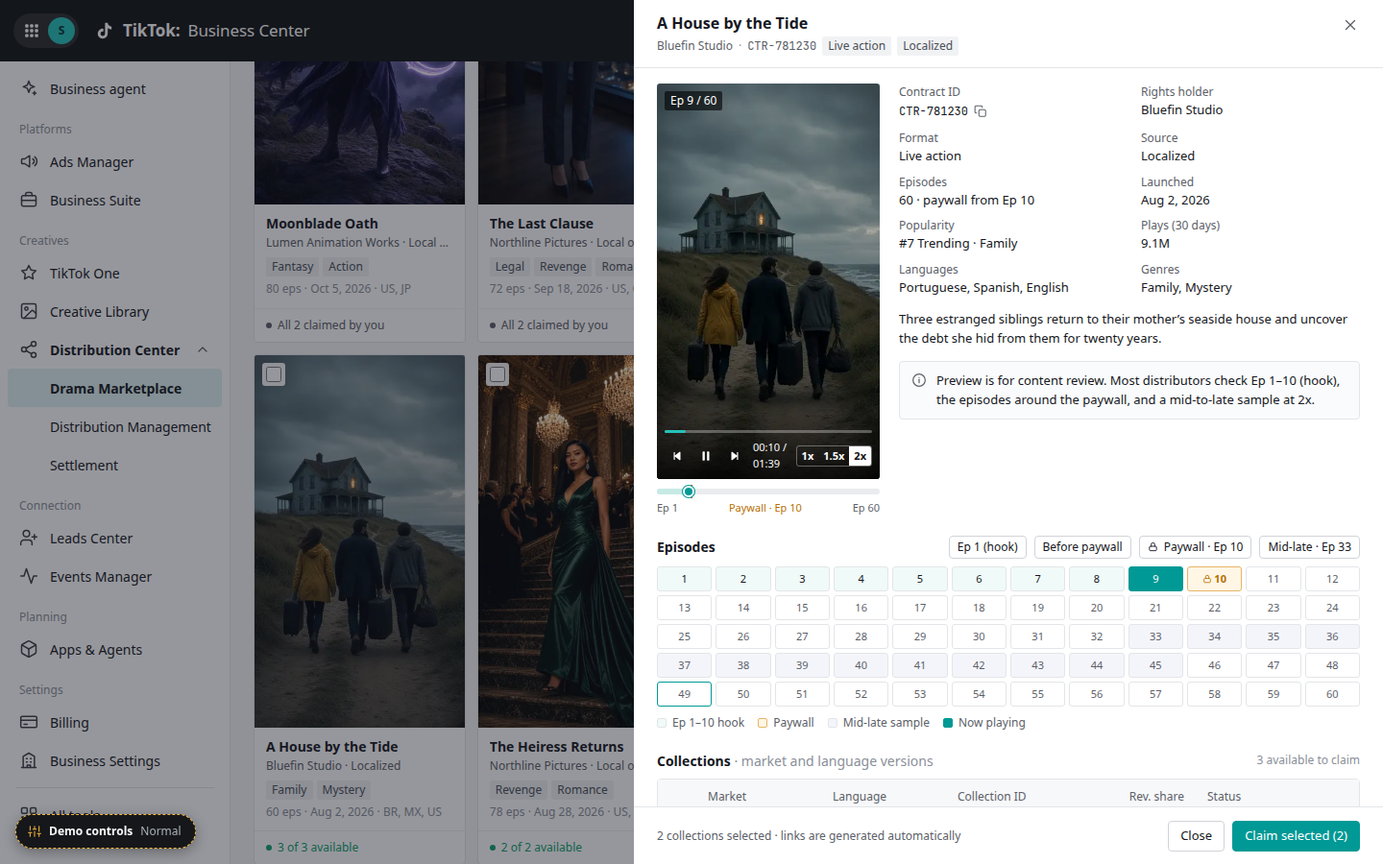
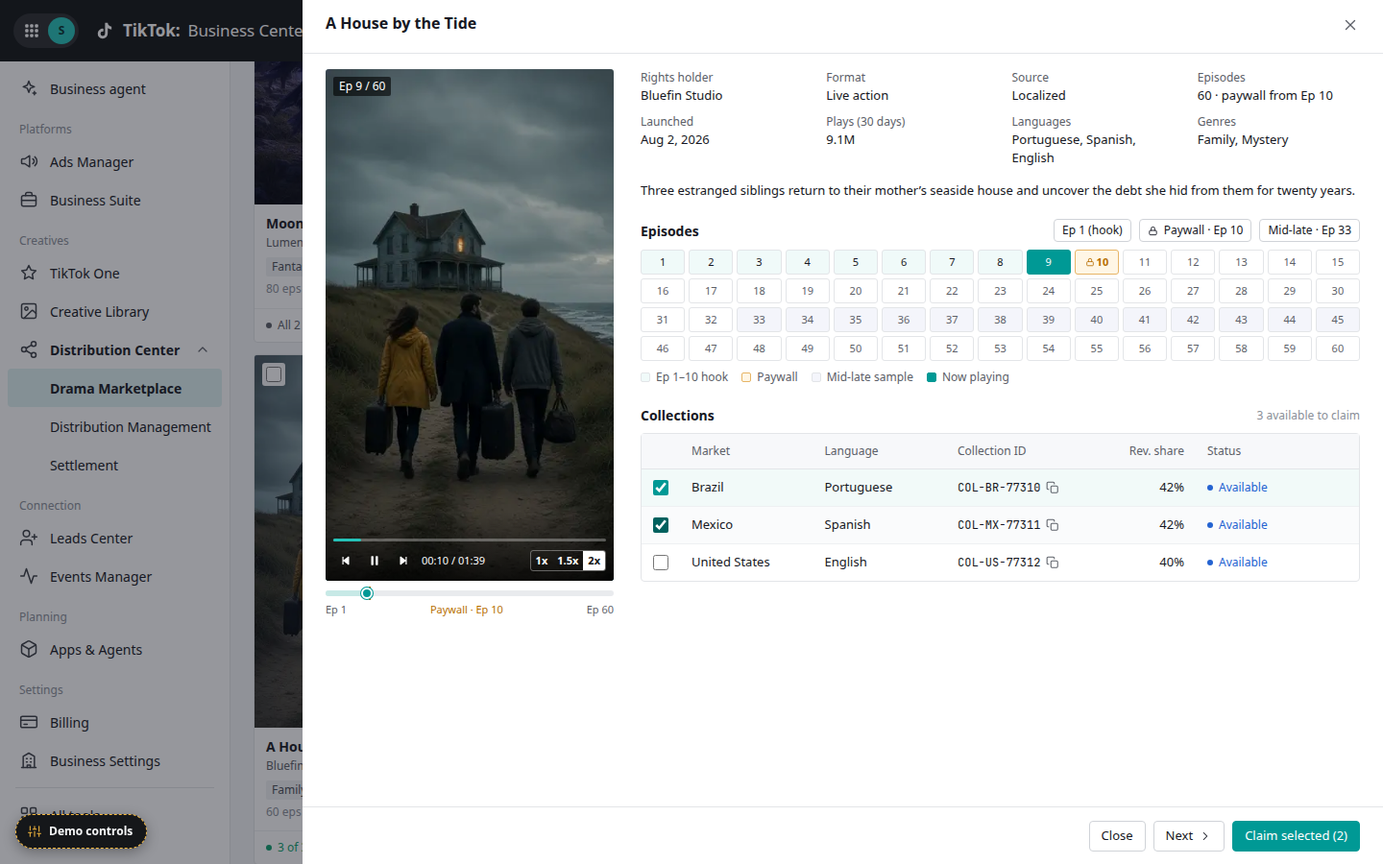
Sync prototype: 1125px drawers, simplified drama drawer with Next button, refresh screenshots

diff --git a/index.html b/index.html
@@ -212,7 +212,7 @@ button.kpi.on{box-shadow:inset 0 -2px 0 var(--primary)}
 /* Drawer & modal */
 .mask{position:fixed;inset:0;background:rgba(22,24,35,.45);z-index:100;opacity:0;transition:opacity .15s}
 .mask.show{opacity:1}
-.drawer{position:fixed;top:0;right:0;bottom:0;width:min(var(--w,760px),calc(100vw - 80px));background:#fff;z-index:101;display:flex;flex-direction:column;transform:translateX(100%);transition:transform .2s ease}
+.drawer{position:fixed;top:0;right:0;bottom:0;width:min(1125px,calc(100vw - 48px));background:#fff;z-index:101;display:flex;flex-direction:column;transform:translateX(100%);transition:transform .2s ease}
 .drawer.show{transform:none}
 .dr-h{min-height:56px;padding:12px 20px 12px 24px;border-bottom:1px solid var(--border);display:flex;align-items:flex-start;gap:12px}
 .dr-h .t{flex:1;min-width:0}
@@ -233,6 +233,11 @@ button.kpi.on{box-shadow:inset 0 -2px 0 var(--primary)}
 .sec-h h4{margin:0;font-size:14px;font-weight:600}
 .kv{display:grid;grid-template-columns:repeat(2,minmax(0,1fr));gap:8px 24px}
 .kv.three{grid-template-columns:repeat(3,minmax(0,1fr))}
+.kv.four{grid-template-columns:repeat(4,minmax(0,1fr))}
+.kv.one{grid-template-columns:minmax(0,1fr);gap:10px}
+.dr-cols{display:grid;grid-template-columns:minmax(0,1fr) 320px;gap:24px;align-items:start}
+.dr-aside{display:flex;flex-direction:column;gap:20px;min-width:0}
+.dr-aside .sec{margin-top:0}
 .kv .k{font-size:12px;color:var(--text2)}
 .kv .v{font-size:13px;word-break:break-word}
 .box{border:1px solid var(--border);border-radius:4px;padding:12px 14px}
@@ -255,8 +260,9 @@ button.kpi.on{box-shadow:inset 0 -2px 0 var(--primary)}
 .amount-xl{font-size:28px;font-weight:600;line-height:36px;font-variant-numeric:tabular-nums}
 
 /* Player */
-.det-top{display:grid;grid-template-columns:232px minmax(0,1fr);gap:20px}
-.player{position:relative;width:232px;aspect-ratio:9/16;background:#000;border-radius:4px;overflow:hidden;color:#fff;user-select:none}
+.det{display:grid;grid-template-columns:300px minmax(0,1fr);gap:28px;align-items:start}
+.det-l{position:sticky;top:0}
+.player{position:relative;width:100%;aspect-ratio:9/16;background:#000;border-radius:4px;overflow:hidden;color:#fff;user-select:none}
 .player svg.poster{position:absolute;inset:0;width:100%;height:100%}
 .player .pl-frame{position:absolute;inset:0;width:100%;height:100%;object-fit:cover}
 .player .pl-dim{position:absolute;inset:0;background:rgba(0,0,0,.18)}
@@ -275,13 +281,13 @@ button.kpi.on{box-shadow:inset 0 -2px 0 var(--primary)}
 .pl-speed{display:flex;border:1px solid rgba(255,255,255,.35);border-radius:3px;overflow:hidden}
 .pl-speed button{border:0;background:transparent;color:#fff;font-size:11px;height:20px;padding:0 5px;cursor:pointer;font-weight:600}
 .pl-speed button.on{background:#fff;color:#111}
-.series{margin-top:10px;width:232px}
+.series{margin-top:10px;width:100%}
 .series .trk{position:relative;height:6px;background:#E9EBEE;border-radius:3px}
 .series .free{position:absolute;left:0;top:0;bottom:0;background:#C7E9E6;border-radius:3px 0 0 3px}
 .series .mark{position:absolute;top:-4px;width:2px;height:14px;background:var(--warn)}
 .series .cur{position:absolute;top:-3px;width:12px;height:12px;border-radius:50%;background:var(--primary);border:2px solid #fff;box-shadow:0 0 0 1px var(--primary);transform:translateX(-6px)}
 .series .lbls{display:flex;justify-content:space-between;font-size:11px;color:var(--text2);margin-top:6px}
-.ep-grid{display:grid;grid-template-columns:repeat(12,minmax(0,1fr));gap:4px}
+.ep-grid{display:grid;grid-template-columns:repeat(15,minmax(0,1fr));gap:4px}
 .ep{height:26px;border:1px solid var(--border);background:#fff;border-radius:3px;font-size:11px;cursor:pointer;display:flex;align-items:center;justify-content:center;gap:2px;padding:0;font-variant-numeric:tabular-nums}
 .ep:hover{border-color:var(--primary)}
 .ep.hook{background:#F0FAF9}
@@ -319,6 +325,7 @@ button.kpi.on{box-shadow:inset 0 -2px 0 var(--primary)}
 .demo-pill{height:36px;border-radius:18px;background:#15171A;border:1px dashed #F5B83D;color:#F5F6F7;display:flex;align-items:center;gap:8px;padding:0 14px 0 12px;cursor:pointer;font-size:12px;font-weight:600;box-shadow:0 4px 14px rgba(0,0,0,.3)}
 .demo-pill .ic{color:#F5B83D}
 .demo-pill em{font-style:normal;color:#A9AFB8;font-weight:500}
+#drawer-root:has(.drawer) ~ .demo .demo-pill em{display:none}
 .demo-panel{width:300px;background:#15171A;border:1px dashed #F5B83D;border-radius:6px;box-shadow:0 8px 24px rgba(0,0,0,.35);overflow:hidden}
 .demo-h{display:flex;align-items:center;gap:8px;padding:10px 10px 10px 14px;border-bottom:1px solid #2C3036}
 .demo-h b{font-size:12px;letter-spacing:.6px;text-transform:uppercase;color:#F5B83D}
@@ -657,7 +664,7 @@ let drawerFn = null, modalFn = null, drawerClose = null;
 function openDrawer(fn, onClose){
   drawerFn = fn; drawerClose = onClose || null;
   const r = fn();
-  $('#drawer-root').innerHTML = `<div class="mask" data-act="close-drawer"></div><aside class="drawer" role="dialog" aria-modal="true" style="--w:${r.width || 760}px">${drawerInner(r)}</aside>`;
+  $('#drawer-root').innerHTML = `<div class="mask" data-act="close-drawer"></div><aside class="drawer" role="dialog" aria-modal="true">${drawerInner(r)}</aside>`;
   requestAnimationFrame(() => { $$('#drawer-root .mask, #drawer-root .drawer').forEach(e => e.classList.add('show')); });
 }
 function drawerInner(r){
@@ -667,7 +674,7 @@ function refreshDrawer(){
   if (!drawerFn) return;
   const dr = $('#drawer-root .drawer'); if (!dr) return;
   const b = $('.dr-b', dr); const top = b ? b.scrollTop : 0;
-  const r = drawerFn(); dr.style.setProperty('--w', (r.width || 760) + 'px'); dr.innerHTML = drawerInner(r);
+  const r = drawerFn(); dr.innerHTML = drawerInner(r);
   const nb = $('.dr-b', dr); if (nb) nb.scrollTop = top;
   if (r.after) r.after();
 }
@@ -913,8 +920,8 @@ function dramaDrawer(ctrId){
       <td class="num">${x.share}%</td><td>${colStatus(x)}</td></tr>`;
   }).join('');
   const body = `
-  <div class="det-top">
-    <div>
+  <div class="det">
+    <div class="det-l">
       <div class="player ${PL.playing ? 'playing' : ''}" id="player">
         ${poster(ctrId)}<img class="pl-frame" id="pl-frame" src="${frameSrc(ctrId, (PL.ep - 1) % MEDIA[ctrId][1] + 1)}" alt=""><div class="pl-dim"></div>
         <div class="pl-top"><span class="tag dark" id="pl-ep">Ep ${PL.ep} / ${N}</span><span class="tag warn" id="pl-lock" style="${PL.ep >= pw ? '' : 'display:none'}">${ic('lock', 10)}Paid episode</span></div>
@@ -933,36 +940,33 @@ function dramaDrawer(ctrId){
       <div class="series"><div class="trk"><div class="free" style="width:${(pw - 1) / N * 100}%"></div><div class="mark" style="left:${(pw - 1) / N * 100}%" title="Paywall"></div><div class="cur" id="pl-cur" style="left:${(PL.ep - 0.5) / N * 100}%"></div></div>
         <div class="lbls"><span>Ep 1</span><span style="color:var(--warn)">Paywall · Ep ${pw}</span><span>Ep ${N}</span></div></div>
     </div>
-    <div>
-      <div class="kv">
-        <div><div class="k">Contract ID</div><div class="v"><span class="copyable"><span class="mono">${c.id}</span>${copyBtn(c.id, 'Contract ID copied')}</span></div></div>
+    <div class="det-r">
+      <div class="kv four">
         <div><div class="k">Rights holder</div><div class="v">${c.holder}</div></div>
         <div><div class="k">Format</div><div class="v">${c.format}</div></div>
         <div><div class="k">Source</div><div class="v">${c.source}</div></div>
         <div><div class="k">Episodes</div><div class="v">${N} · paywall from Ep ${pw}</div></div>
         <div><div class="k">Launched</div><div class="v">${c.launchL}</div></div>
-        <div><div class="k">Popularity</div><div class="v">${c.rankL}</div></div>
         <div><div class="k">Plays (30 days)</div><div class="v">${c.plays}</div></div>
         <div><div class="k">Languages</div><div class="v">${Array.from(new Set(cs.map(x => x.lang))).join(', ')}</div></div>
         <div><div class="k">Genres</div><div class="v">${c.genres.join(', ')}</div></div>
       </div>
       <p style="margin:14px 0 0">${c.synopsis}</p>
-      <div class="banner plain" style="margin-top:14px">${ic('info', 16)}<div class="bn-body">Preview is for content review. Most distributors check Ep 1–10 (hook), the episodes around the paywall, and a mid-to-late sample at 2x.</div></div>
-    </div>
-  </div>
-  <div class="sec"><div class="sec-h"><h4>Episodes</h4><div class="filters"><button class="btn btn-xs" data-act="pl-ep" data-ep="1">Ep 1 (hook)</button><button class="btn btn-xs" data-act="pl-ep" data-ep="${Math.max(1, pw - 1)}">Before paywall</button><button class="btn btn-xs" data-act="pl-ep" data-ep="${pw}">${ic('lock', 11)}Paywall · Ep ${pw}</button><button class="btn btn-xs" data-act="pl-ep" data-ep="${midA}">Mid-late · Ep ${midA}</button></div></div>
+  <div class="sec"><div class="sec-h"><h4>Episodes</h4><div class="filters"><button class="btn btn-xs" data-act="pl-ep" data-ep="1">Ep 1 (hook)</button><button class="btn btn-xs" data-act="pl-ep" data-ep="${pw}">${ic('lock', 11)}Paywall · Ep ${pw}</button><button class="btn btn-xs" data-act="pl-ep" data-ep="${midA}">Mid-late · Ep ${midA}</button></div></div>
     <div class="ep-grid" id="ep-grid">${eps}</div>
     <div class="legend"><span><i style="background:#F0FAF9"></i>Ep 1–10 hook</span><span><i style="background:var(--warn-bg);border-color:#E7B567"></i>Paywall</span><span><i style="background:#F4F5FB"></i>Mid-late sample</span><span><i style="background:var(--primary);border-color:var(--primary)"></i>Now playing</span></div>
   </div>
-  <div class="sec"><div class="sec-h"><h4>Collections <span class="faint" style="font-weight:400">· market and language versions</span></h4><span class="faint" style="font-size:12px">${availCount} available to claim</span></div>
+  <div class="sec"><div class="sec-h"><h4>Collections</h4><span class="faint" style="font-size:12px">${availCount} available to claim</span></div>
     <div class="panel"><table class="tbl"><thead><tr><th style="width:40px"></th><th>Market</th><th>Language</th><th style="width:170px">Collection ID</th><th style="width:90px" class="num">Rev. share</th><th style="width:170px">Status</th></tr></thead><tbody>${rows}</tbody></table></div>
-    <div class="faint" style="font-size:12px;margin-top:8px">Each claim is registered as Collection ID × ${BCS.main.name} (BC ${BCS.main.id}). Revenue share is set by the rights holder per collection.</div>
+  </div>
+    </div>
   </div>`;
   const n = DS.sel.size;
-  return {title:c.title, width:780,
-    sub:`<span>${c.holder}</span><span class="faint">·</span><span class="mono">${c.id}</span><span class="tag">${c.format}</span><span class="tag">${c.source}</span>`,
+  const order = mkFiltered().map(k => k.id); const at = order.indexOf(ctrId); const next = at >= 0 ? order[at + 1] : null;
+  const nextTip = next ? 'Next: ' + ctrOf(next).title : at < 0 ? 'Not in the current Marketplace list' : 'Last drama in the current Marketplace list';
+  return {title:c.title,
     body,
-    footer:`<span class="grow">${n ? plural(n, 'collection') + ' selected · links are generated automatically' : 'Select collections to claim. Links are generated automatically; no ads are created.'}</span><button class="btn" data-act="close-drawer">Close</button><button class="btn btn-primary" data-act="claim-open">Claim selected${n ? ' (' + n + ')' : ''}</button>`};
+    footer:`<button class="btn" data-act="close-drawer">Close</button><button class="btn" data-act="drama-next" ${next ? 'data-id="' + next + '"' : 'disabled'} title="${esc(nextTip)}">Next${ic('chev-right', 14)}</button><button class="btn btn-primary" data-act="claim-open">Claim selected${n ? ' (' + n + ')' : ''}</button>`};
 }
 function updatePlayer(){
   const c = ctrOf(PL.ctr); if (!c || !$('#player')){ stopPlayer(); return; }
@@ -1194,13 +1198,13 @@ function openGenerate(pre){
 function genDrawer(){
   const cands = genCandidates(); const n = GS.sel.size;
   const rows = cands.map(c => { const l = linkOf(c.id), k = ctrOf(c.ctr), on = GS.sel.has(c.id);
-    return `<tr class="${on ? 'sel' : ''}"><td><input type="checkbox" class="cb" name="g-${c.id}" data-chg="gen-sel" data-id="${c.id}" ${on ? 'checked' : ''} aria-label="Select"></td><td><div class="cell-title ell">${k.title}</div><div class="cell-sub">${colLabel(c)}</div></td><td class="mono">${c.id}</td><td>${l ? '<span class="st muted">Link exists</span><div class="st-reason">Returns existing link</div>' : '<span class="st info">No link yet</span>'}</td></tr>`; }).join('');
+    return `<tr class="${on ? 'sel' : ''}"><td><input type="checkbox" class="cb" name="g-${c.id}" data-chg="gen-sel" data-id="${c.id}" ${on ? 'checked' : ''} aria-label="Select"></td><td><div class="cell-title ell">${k.title}</div><div class="cell-sub mono">${k.id}</div></td><td>${colLabel(c)}</td><td class="mono">${c.id}</td><td class="num">${c.share}%</td><td>${l ? '<span class="st muted">Link exists</span><div class="st-reason">Returns existing link</div>' : '<span class="st info">No link yet</span>'}</td></tr>`; }).join('');
   const newN = Array.from(GS.sel).filter(id => !linkOf(id)).length;
-  return {title:'Generate links', width:680, sub:'Choose a Business Center and the claimed collections that need links',
+  return {title:'Generate links', sub:'Choose a Business Center and the claimed collections that need links',
     body:`${banner('info', 'Generation is idempotent: one link per Collection × Business Center. Re-submitting, retrying, or selecting a collection that already has a link returns the existing link instead of creating a duplicate.')}
       <div class="sec"><div class="sec-h"><h4>Claimed collections</h4><span class="faint" style="font-size:12px">BC ${BCS[GS.bc].id}</span></div>
       <div class="toolbar" style="margin-bottom:8px"><div class="left"><select class="select" style="width:250px" name="gen-bc" data-chg="gen-bc" aria-label="Business Center"><option value="main" ${GS.bc === 'main' ? 'selected' : ''}>${BCS.main.name} (${BCS.main.role})</option><option value="sub" ${GS.bc === 'sub' ? 'selected' : ''}>Studio B (${BCS.sub.role})</option></select></div><div class="right"><button class="btn" data-act="gen-pick" data-m="new">Select without links</button><button class="btn" data-act="gen-pick" data-m="all">Select all</button><button class="btn" data-act="gen-pick" data-m="none">Clear</button></div></div>
-      ${cands.length ? `<div class="panel"><table class="tbl"><thead><tr><th style="width:40px"></th><th>Drama · collection</th><th style="width:150px">Collection ID</th><th style="width:170px">Current link</th></tr></thead><tbody>${rows}</tbody></table></div>` : '<div class="panel">' + emptyBlock('inbox', 'No claimed collections in this Business Center', 'Studio B hasn\u2019t claimed any collections. Claims belong to the Business Center that made them.', '<button class="btn" data-act="gen-bc-main">Switch to ' + BCS.main.name + '</button>') + '</div>'}</div>`,
+      ${cands.length ? `<div class="panel"><table class="tbl"><thead><tr><th style="width:40px"></th><th>Drama (Contract)</th><th style="width:240px">Market · language</th><th style="width:160px">Collection ID</th><th style="width:100px" class="num">Rev. share</th><th style="width:190px">Current link</th></tr></thead><tbody>${rows}</tbody></table></div>` : '<div class="panel">' + emptyBlock('inbox', 'No claimed collections in this Business Center', 'Studio B hasn\u2019t claimed any collections. Claims belong to the Business Center that made them.', '<button class="btn" data-act="gen-bc-main">Switch to ' + BCS.main.name + '</button>') + '</div>'}</div>`,
     footer:`<span class="grow">${n ? plural(n, 'collection') + ' selected · ' + newN + ' new' : 'Nothing selected'}</span><button class="btn" data-act="close-drawer">Cancel</button><button class="btn btn-primary" data-act="gen-submit">Generate links${n ? ' (' + n + ')' : ''}</button>`};
 }
 let CODE_N = 0;
@@ -1241,14 +1245,16 @@ function linkDrawer(colId){
       return `<tr><td class="mono">${a.id}</td><td class="ell">${a.name}</td><td class="ell cell-sub">${a.campaign}</td><td><span class="st ${cls}">${a.st}</span></td></tr>`; }).join('')}</tbody></table></div>`
     : '<div class="panel">' + emptyBlock('ads', 'No ads use this link yet', 'Ads you create in TTAM with this link will appear here.', '') + '</div>';
   const recheck = l.status === 'unknown' || l.ap === 'pausing' || l.ap === 'unknown';
-  return {title:k.title + ' · ' + c.market, width:780,
+  return {title:k.title + ' · ' + c.market,
     sub:`<span>${c.lang}</span><span class="faint">·</span><span class="mono">${c.id}</span>${stChip(LINK_ST, l.status)}`,
-    body:`<div class="sec"><div class="box" style="display:flex;align-items:center;gap:8px"><span style="color:var(--text2)">${ic('link', 16)}</span><span class="mono ell" style="flex:1;font-size:13px">${l.url}</span><button class="btn btn-sm" data-act="copy" data-text="${l.url}" data-msg="Link copied">${ic('copy', 14)}Copy</button></div></div>
+    body:`<div class="dr-cols"><div class="dr-main"><div class="sec"><div class="box" style="display:flex;align-items:center;gap:8px"><span style="color:var(--text2)">${ic('link', 16)}</span><span class="mono ell" style="flex:1;font-size:13px">${l.url}</span><button class="btn btn-sm" data-act="copy" data-text="${l.url}" data-msg="Link copied">${ic('copy', 14)}Copy</button></div></div>
       <div class="sec boxes">
         <div class="box"><div class="box-l">Link status · from TTDC</div>${linkStCell(l)}<div class="cell-sub" style="margin-top:6px">Updated ${l.updated}</div></div>
         <div class="box"><div class="box-l">Auto-pause result · from TTAM</div>${stChip(AP_ST, l.ap)}<div class="st-reason">${l.apNote || (l.status === 'active' ? 'Link is active; no ads need pausing.' : '')}</div>${l.ap === 'failed' || l.ap === 'partial' ? '<div style="margin-top:6px"><button class="btn-link" style="font-size:12px" data-act="ttam" data-col="' + l.col + '">Pause remaining ads in TTAM ' + ic('external', 12) + '</button></div>' : ''}</div>
       </div>
-      <div class="sec"><div class="sec-h"><h4>Distribution relationship</h4></div><div class="kv three">
+      <div class="sec"><div class="sec-h"><h4>Ads using this link <span class="faint" style="font-weight:400">· ${plural(l.ads.length, 'ad')}</span></h4></div>${ads}</div>
+      <div class="sec"><div class="sec-h"><h4>Status history</h4></div><ul class="timeline">${l.history.slice().reverse().map(h => `<li class="${h.k}"><div class="tl-t">${h.t}</div><div class="tl-e">${h.e}</div><div class="tl-d">${h.d}</div></li>`).join('')}</ul></div></div>
+      <div class="dr-aside">      <div class="sec"><div class="sec-h"><h4>Distribution relationship</h4></div><div class="kv one">
         <div><div class="k">Identifier</div><div class="v mono">${c.id} × BC ${BCS.main.id}</div></div>
         <div><div class="k">Business Center</div><div class="v">${BCS.main.name}</div></div>
         <div><div class="k">Contract ID</div><div class="v mono">${k.id}</div></div>
@@ -1257,9 +1263,7 @@ function linkDrawer(colId){
         <div><div class="k">Revenue share</div><div class="v">${c.share}%</div></div>
         <div><div class="k">Generated</div><div class="v">${l.created}</div></div>
         <div><div class="k">Rights holder</div><div class="v">${k.holder}</div></div>
-        <div><div class="k">Closing a link</div><div class="v">Only the rights holder, in TTDC</div></div></div></div>
-      <div class="sec"><div class="sec-h"><h4>Ads using this link <span class="faint" style="font-weight:400">· ${plural(l.ads.length, 'ad')}</span></h4></div>${ads}</div>
-      <div class="sec"><div class="sec-h"><h4>Status history</h4></div><ul class="timeline">${l.history.slice().reverse().map(h => `<li class="${h.k}"><div class="tl-t">${h.t}</div><div class="tl-e">${h.e}</div><div class="tl-d">${h.d}</div></li>`).join('')}</ul></div>`,
+        <div><div class="k">Closing a link</div><div class="v">Only the rights holder, in TTDC</div></div></div></div></div></div>`,
     footer:`${recheck ? '<button class="btn" data-act="link-recheck" data-col="' + l.col + '">' + ic('refresh', 14) + 'Refresh status</button>' : ''}<button class="btn btn-primary" data-act="ttam" data-col="${l.col}">${ic('external', 14)}Open TTAM</button>`};
 }
 
@@ -1310,19 +1314,26 @@ function openExport(){
 function exportDrawer(){
   const all = D().links.length, filt = lvFiltered().length, seln = Array.from(UI.lv.sel).filter(id => linkOf(id)).length;
   const radio = (v, l, n) => `<label class="check-row" style="margin-top:8px"><input type="radio" class="cb" name="ex-scope" data-chg="ex-scope" value="${v}" ${EX.scope === v ? 'checked' : ''}><span><b>${l}</b><div class="cell-sub">${plural(n, 'link')}</div></span></label>`;
-  return {title:'Export links', width:560, sub:'Complete export of your distribution links',
-    body:`<div class="sec"><div class="sec-h"><h4>Scope</h4></div>${radio('all', 'All links', all)}${radio('filtered', 'Links matching current filters', filt)}${radio('selected', 'Selected links', seln)}</div>
-      <div class="sec"><div class="sec-h"><h4>Columns</h4><span class="faint" style="font-size:12px">${EX.fields.size} of ${LINK_FIELDS.length}</span></div><div class="kv">${LINK_FIELDS.map(f => `<label style="display:flex;gap:8px;align-items:center;cursor:pointer"><input type="checkbox" class="cb" name="ex-f-${f[0]}" data-chg="ex-field" data-f="${f[0]}" ${EX.fields.has(f[0]) ? 'checked' : ''}>${f[1]}</label>`).join('')}</div></div>
-      <div class="sec"><div class="sec-h"><h4>Format</h4></div><div class="seg"><button class="${EX.fmt === 'csv' ? 'on' : ''}" data-act="ex-fmt" data-v="csv">CSV</button><button class="${EX.fmt === 'tsv' ? 'on' : ''}" data-act="ex-fmt" data-v="tsv">TSV (paste into sheets)</button></div></div>`,
+  const scoped = exScope(); const flds = LINK_FIELDS.filter(f => EX.fields.has(f[0]));
+  const preview = !scoped.length ? '<div class="panel">' + emptyBlock('inbox', 'No links in this scope', 'Choose another scope to see a preview.', '') + '</div>'
+    : !flds.length ? '<div class="panel">' + emptyBlock('file', 'No columns selected', 'Choose at least one column to export.', '') + '</div>'
+    : `<div class="panel" style="overflow-x:auto"><table class="tbl" style="min-width:${flds.length * 140}px"><thead><tr>${flds.map(f => '<th>' + f[1] + '</th>').join('')}</tr></thead><tbody>${scoped.slice(0, 5).map(l => '<tr>' + flds.map(f => `<td class="ell ${f[0] === 'link' || f[0] === 'contract' || f[0] === 'collection' ? 'mono' : ''}" title="${esc(String(exVal(l, f[0])))}">${esc(String(exVal(l, f[0])))}</td>`).join('') + '</tr>').join('')}</tbody></table></div>${scoped.length > 5 ? '<div class="faint" style="font-size:12px;margin-top:8px">Showing 5 of ' + plural(scoped.length, 'row') + '.</div>' : ''}`;
+  return {title:'Export links', sub:'Complete export of your distribution links',
+    body:`<div class="dr-cols"><div class="dr-main">
+      <div class="sec"><div class="sec-h"><h4>Columns</h4><span class="faint" style="font-size:12px">${EX.fields.size} of ${LINK_FIELDS.length}</span></div><div class="kv four">${LINK_FIELDS.map(f => `<label style="display:flex;gap:8px;align-items:center;cursor:pointer"><input type="checkbox" class="cb" name="ex-f-${f[0]}" data-chg="ex-field" data-f="${f[0]}" ${EX.fields.has(f[0]) ? 'checked' : ''}>${f[1]}</label>`).join('')}</div></div>
+      <div class="sec"><div class="sec-h"><h4>Preview</h4><span class="faint" style="font-size:12px">${plural(scoped.length, 'row')}</span></div>${preview}</div></div>
+      <div class="dr-aside"><div class="sec"><div class="sec-h"><h4>Scope</h4></div>${radio('all', 'All links', all)}${radio('filtered', 'Links matching current filters', filt)}${radio('selected', 'Selected links', seln)}</div>
+      <div class="sec"><div class="sec-h"><h4>Format</h4></div><div class="seg"><button class="${EX.fmt === 'csv' ? 'on' : ''}" data-act="ex-fmt" data-v="csv">CSV</button><button class="${EX.fmt === 'tsv' ? 'on' : ''}" data-act="ex-fmt" data-v="tsv">TSV (paste into sheets)</button></div></div></div></div>`,
     footer:`<span class="grow">File: distribution-links-2026-11-03.${EX.fmt}</span><button class="btn" data-act="close-drawer">Cancel</button><button class="btn btn-primary" data-act="ex-run">${ic('download', 14)}Export</button>`};
 }
+function exScope(){ return EX.scope === 'all' ? D().links : EX.scope === 'filtered' ? lvFiltered() : D().links.filter(l => UI.lv.sel.has(l.col)); }
+function exVal(l, f){ const c = colOf(l.col), k = ctrOf(c.ctr); return {drama:k.title, contract:k.id, collection:c.id, market:c.market, lang:c.lang, link:l.url, status:LINK_ST[l.status][1], reason:l.reason, ap:AP_ST[l.ap][1], updated:l.updated}[f]; }
 function runExport(){
-  let list = EX.scope === 'all' ? D().links : EX.scope === 'filtered' ? lvFiltered() : D().links.filter(l => UI.lv.sel.has(l.col));
+  const list = exScope();
   if (!list.length){ toast('No links in this scope. Choose another scope.', 'warn'); return; }
   if (!EX.fields.size){ toast('Choose at least one column.', 'warn'); return; }
   const flds = LINK_FIELDS.filter(f => EX.fields.has(f[0]));
-  const val = (l, f) => { const c = colOf(l.col), k = ctrOf(c.ctr); return {drama:k.title, contract:k.id, collection:c.id, market:c.market, lang:c.lang, link:l.url, status:LINK_ST[l.status][1], reason:l.reason, ap:AP_ST[l.ap][1], updated:l.updated}[f]; };
-  const rows = [flds.map(f => f[1])].concat(list.map(l => flds.map(f => val(l, f[0]))));
+  const rows = [flds.map(f => f[1])].concat(list.map(l => flds.map(f => exVal(l, f[0]))));
   const text = EX.fmt === 'tsv' ? rows.map(r => r.join('\t')).join('\n') : csv(rows);
   download('distribution-links-2026-11-03.' + EX.fmt, text);
   closeDrawer(); toast('Exported ' + plural(list.length, 'link') + ' to distribution-links-2026-11-03.' + EX.fmt);
@@ -1385,15 +1396,16 @@ function stmDrawer(id){
   else if (s.status === 'failed') foot += `<button class="btn" data-act="outside" data-name="Billing">Update beneficiary in Billing</button><button class="btn btn-primary" data-act="stm-retry" data-id="${id}">Request payout retry</button>`;
   else if (s.status === 'confirming') foot += `<button class="btn btn-primary" data-act="stm-check" data-id="${id}">${ic('refresh', 14)}Check status</button>`;
   else foot += `<button class="btn btn-primary" data-act="close-drawer">Close</button>`;
-  return {title:'Settlement statement ' + s.id, width:760, sub:`<span>${s.period}</span><span class="faint">·</span><span>${b.name}</span><span class="faint">·</span><span>Version ${s.version}</span>${stChip(STM_ST, s.status)}`,
+  return {title:'Settlement statement ' + s.id, sub:`<span>${s.period}</span><span class="faint">·</span><span>${b.name}</span><span class="faint">·</span><span>Version ${s.version}</span>${stChip(STM_ST, s.status)}`,
     body:`${s.revised ? banner('warn', '<b>Amount revised: v1 to v2.</b> An adjustment of ' + money(s.adj) + ' was added on Nov 2 (' + s.adjNote + '). Please review and confirm again; your earlier review doesn\u2019t apply to the new version.') + '<div style="height:12px"></div>' : ''}
       ${s.status === 'failed' ? banner('err', '<b>Payout failed · ' + s.failReason + '.</b> The bank rejected the transfer because the account holder name doesn\u2019t match the beneficiary on file. Update the beneficiary name in Billing, then request a payout retry.') + '<div style="height:12px"></div>' : ''}
-      <div class="boxes"><div class="box"><div class="box-l">Final amount · ${s.status === 'pending' ? 'requires your confirmation' : 'formal receivable'}</div><div class="amount-xl">${money(stmFinal(s))}</div><div class="cell-sub">USD · gross ${money(s.gross)} · adjustments ${money(s.adj)}</div></div>
-      <div class="box"><div class="kv"><div><div class="k">Business Center</div><div class="v">${b.name} (${b.role})</div></div><div><div class="k">BC ID</div><div class="v mono">${b.id}</div></div><div><div class="k">Period</div><div class="v">${s.period}</div></div><div><div class="k">Confirm by</div><div class="v">${s.due}</div></div></div></div></div>
+      <div class="dr-cols"><div class="dr-main">
       <div class="sec"><div class="sec-h"><h4>Breakdown by drama</h4><span class="faint" style="font-size:12px">${plural(s.split.length, 'Contract')}</span></div><div class="panel"><table class="tbl"><thead><tr><th style="width:220px">Drama (Contract)</th><th>Collections</th><th class="num" style="width:130px">Amount</th></tr></thead><tbody>${split}
         ${s.adj ? `<tr><td><div class="cell-title">Adjustments</div></td><td class="cell-sub">${s.adjNote}</td><td class="num">${money(s.adj)}</td></tr>` : ''}
         <tr><td style="font-weight:600">Final amount</td><td></td><td class="num" style="font-weight:600">${money(stmFinal(s))}</td></tr></tbody></table></div></div>
-      <div class="sec"><div class="sec-h"><h4>Payout and activity log</h4></div>${logs.length ? '<ul class="timeline">' + logs.map(l => `<li class="${l.k}"><div class="tl-t">${l.t}</div><div class="tl-e">${l.e}</div><div class="tl-d">${l.d}</div></li>`).join('') + '</ul>' : '<div class="faint">No activity yet.</div>'}</div>`,
+      <div class="sec"><div class="sec-h"><h4>Payout and activity log</h4></div>${logs.length ? '<ul class="timeline">' + logs.map(l => `<li class="${l.k}"><div class="tl-t">${l.t}</div><div class="tl-e">${l.e}</div><div class="tl-d">${l.d}</div></li>`).join('') + '</ul>' : '<div class="faint">No activity yet.</div>'}</div></div>
+      <div class="dr-aside"><div class="box"><div class="box-l">Final amount · ${s.status === 'pending' ? 'requires your confirmation' : 'formal receivable'}</div><div class="amount-xl">${money(stmFinal(s))}</div><div class="cell-sub">USD · gross ${money(s.gross)} · adjustments ${money(s.adj)}</div></div>
+      <div class="box"><div class="kv one"><div><div class="k">Business Center</div><div class="v">${b.name} (${b.role})</div></div><div><div class="k">BC ID</div><div class="v mono">${b.id}</div></div><div><div class="k">Period</div><div class="v">${s.period}</div></div><div><div class="k">Version</div><div class="v">${s.version}</div></div><div><div class="k">Confirm by</div><div class="v">${s.due}</div></div></div></div></div></div>`,
     footer:foot};
 }
 const CS = {ack:false};
@@ -1437,6 +1449,12 @@ const ACT = {
   'pl-ep': el => setEp(+el.dataset.ep),
   'pl-speed': el => { PL.speed = +el.dataset.v; $$('.pl-speed button').forEach(b => b.classList.toggle('on', +b.dataset.v === PL.speed)); toast('Playback speed ' + PL.speed + 'x', 'info'); },
   'pl-seek': (el, e) => { const r = el.getBoundingClientRect(); PL.t = Math.max(0, Math.min(1, (e.clientX - r.left) / r.width)) * epDur(PL.ep); updatePlayer(); },
+  'drama-next': el => {
+    const id = el.dataset.id; if (!id) return;
+    stopPlayer(); PL.ctr = id; PL.ep = 1; PL.t = 0; DS.sel = new Set();
+    drawerFn = () => dramaDrawer(id); refreshDrawer();
+    const b = $('#drawer-root .dr-b'); if (b) b.scrollTop = 0;
+  },
   'claim-open': () => { if (!DS.sel.size){ toast('Select at least one available collection to claim.', 'warn'); return; } openClaimFlow([PL.ctr], Array.from(DS.sel).map(id => mkKey(colOf(id)))); },
   'bulk-claim': () => { if (!UI.pick.size){ toast('Select at least one drama.', 'warn'); return; } openClaimFlow(CONTRACTS.map(c => c.id).filter(id => UI.pick.has(id)), []); },
   'pick-clear': () => { UI.pick.clear(); render(); },
@@ -1538,7 +1556,7 @@ const CHG = {
   'lv-all': el => { lvFiltered().forEach(l => el.checked ? UI.lv.sel.add(l.col) : UI.lv.sel.delete(l.col)); render(); },
   'gen-sel': el => { el.checked ? GS.sel.add(el.dataset.id) : GS.sel.delete(el.dataset.id); refreshDrawer(); },
   'gen-bc': el => { GS.bc = el.value; GS.sel = new Set(genCandidates().filter(c => !linkOf(c.id)).map(c => c.id)); refreshDrawer(); },
-  'ex-scope': el => { EX.scope = el.value; },
+  'ex-scope': el => { EX.scope = el.value; refreshDrawer(); },
   'ex-field': el => { el.checked ? EX.fields.add(el.dataset.f) : EX.fields.delete(el.dataset.f); refreshDrawer(); },
   'stm-ack': el => { CS.ack = el.checked; const b = $('[data-act="stm-confirm-submit"]'); if (b) b.disabled = !CS.ack; }
 };
